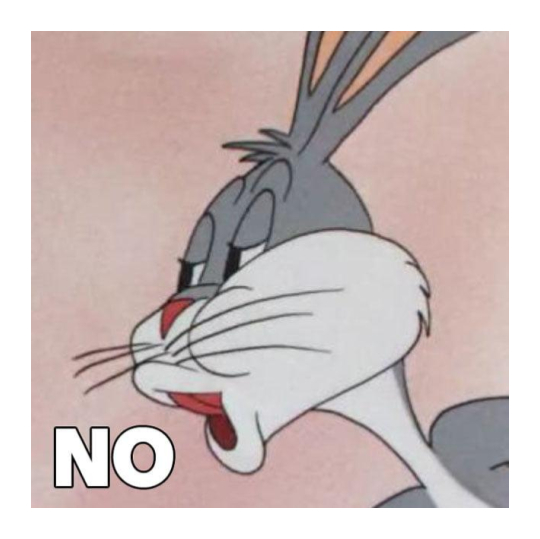
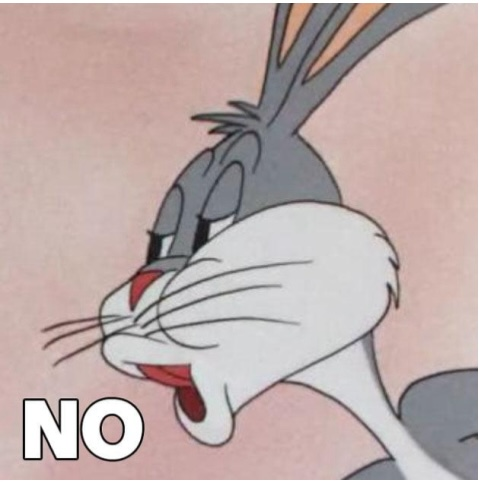
adjusting copy

diff --git a/src/partials/index.html b/src/partials/index.html
@@ -23,37 +23,55 @@
 >
   <div class="mx-auto my-auto max-w-4xl">
     <p
-      class="text-center text-3xl md:text-6xl mt-6 text-gray-900 dark:text-white"
+      class="text-center text-3xl md:text-6xl mt-6 mb-5 text-gray-900 dark:text-white"
     >
       Try the App Right Here!
     </p>
-    <!-- Slideshow container -->
-    <div class="slideshow-container">
-      <!-- Full-width images with number and caption text -->
-      <div class="mySlides fade">
-        <img src="../public/images/cat.jpeg" style="width: 100%" />
+    <div class="flex flex-row space-x-3 items-center">
+      <div class="flex flex-col w-full h-full border border-cyan-300">
+        <div>
+          <p
+            class="text-center text-lg md:text-lg mt-6 text-gray-900 dark:text-white"
+          >
+            Imagine these were your memes.
+          </p>
+        </div>
+        <!-- Slideshow container -->
+        <div class="slideshow-container">
+          <!-- Full-width images with number and caption text -->
+          <div class="mySlides fade flex items-center justify-center">
+            <img src="../public/images/cat.jpeg" class="w-[90%] mx-auto" />
+          </div>
+
+          <div class="mySlides fade flex items-center justify-center">
+            <img src="../public/images/no.jpeg" class="w-[90%] mx-auto" />
+          </div>
+
+          <div class="mySlides fade flex items-center justify-center">
+            <img
+              src="../public/images/two_pills.jpeg"
+              class="w-[90%] mx-auto"
+            />
+          </div>
+
+          <!-- Next and previous buttons -->
+          <a class="prev" onclick="plusSlides(-1)">&#10094;</a>
+          <a class="next" onclick="plusSlides(1)">&#10095;</a>
+        </div>
+        <br />
+        <!-- The dots/circles -->
+        <div style="text-align: center">
+          <span class="dot" onclick="currentSlide(1)"></span>
+          <span class="dot" onclick="currentSlide(2)"></span>
+          <span class="dot" onclick="currentSlide(3)"></span>
+        </div>
       </div>
-
-      <div class="mySlides fade">
-        <img src="../public/images/no.jpeg" style="width: 100%" />
-      </div>
-
-      <div class="mySlides fade">
-        <img src="../public/images/two_pills.jpeg" style="width: 100%" />
-      </div>
-
-      <!-- Next and previous buttons -->
-      <a class="prev" onclick="plusSlides(-1)">&#10094;</a>
-      <a class="next" onclick="plusSlides(1)">&#10095;</a>
-    </div>
-
-    <br />
-
-    <!-- The dots/circles -->
-    <div style="text-align: center">
-      <span class="dot" onclick="currentSlide(1)"></span>
-      <span class="dot" onclick="currentSlide(2)"></span>
-      <span class="dot" onclick="currentSlide(3)"></span>
+      <iframe
+        src="https://meme-search-standard.ytdatakit.xyz/"
+        class="w-full h-[80vh]"
+        frameborder="0"
+        title="meme search standard demo"
+      ></iframe>
     </div>
   </div>
 </section>
